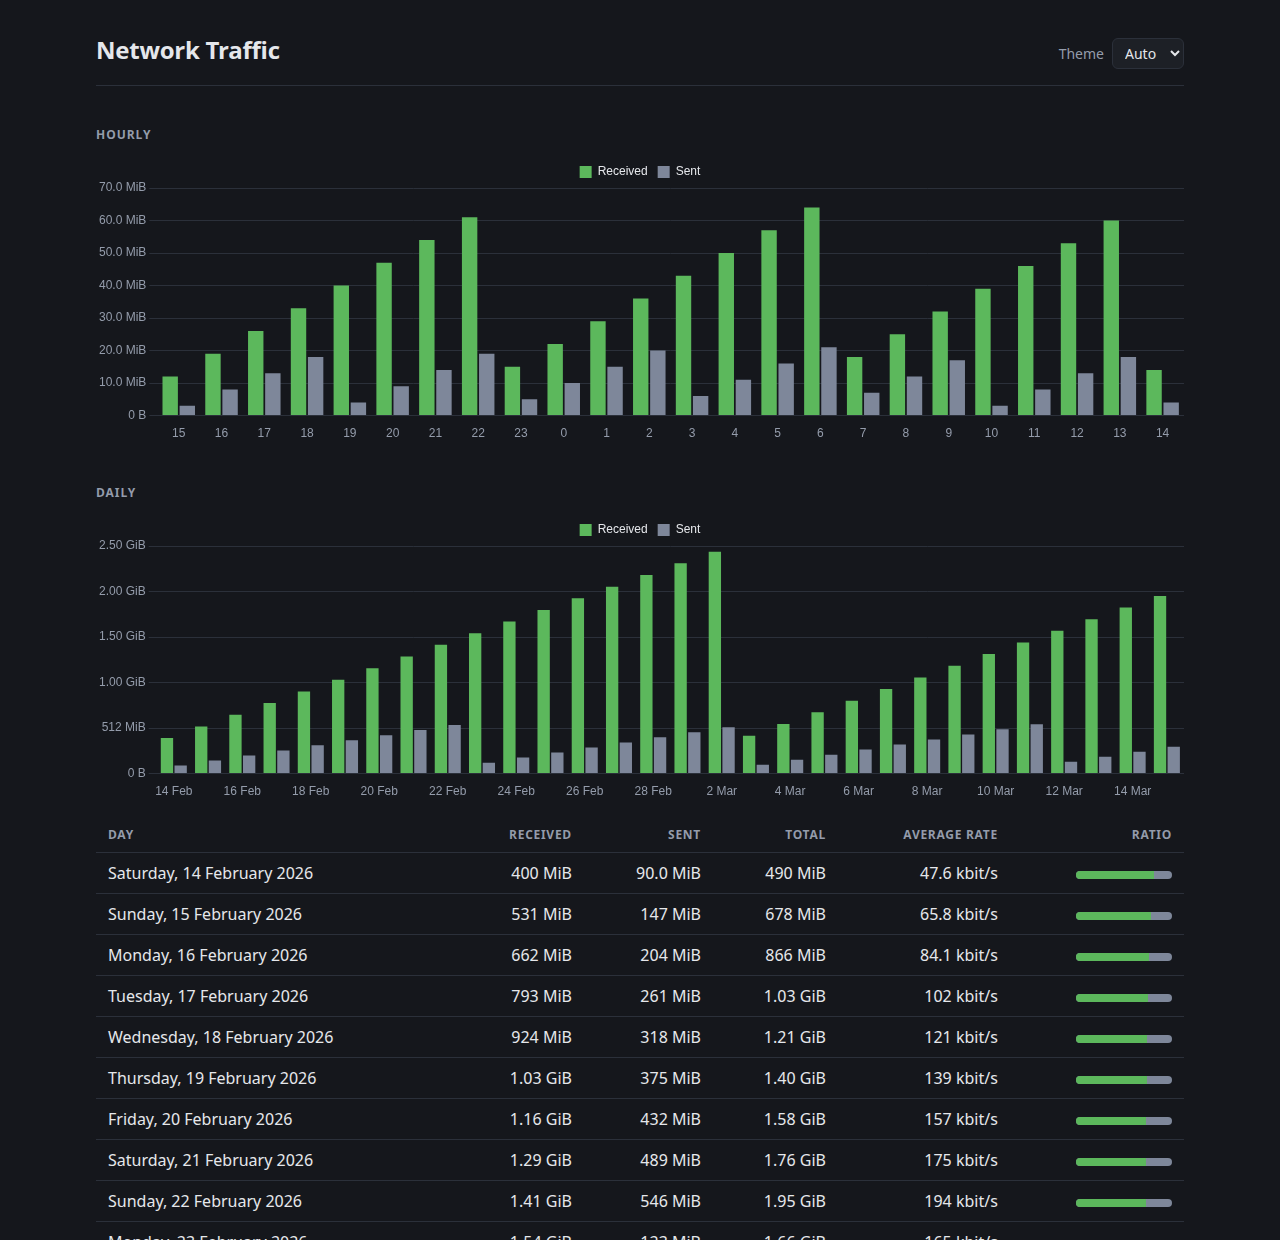
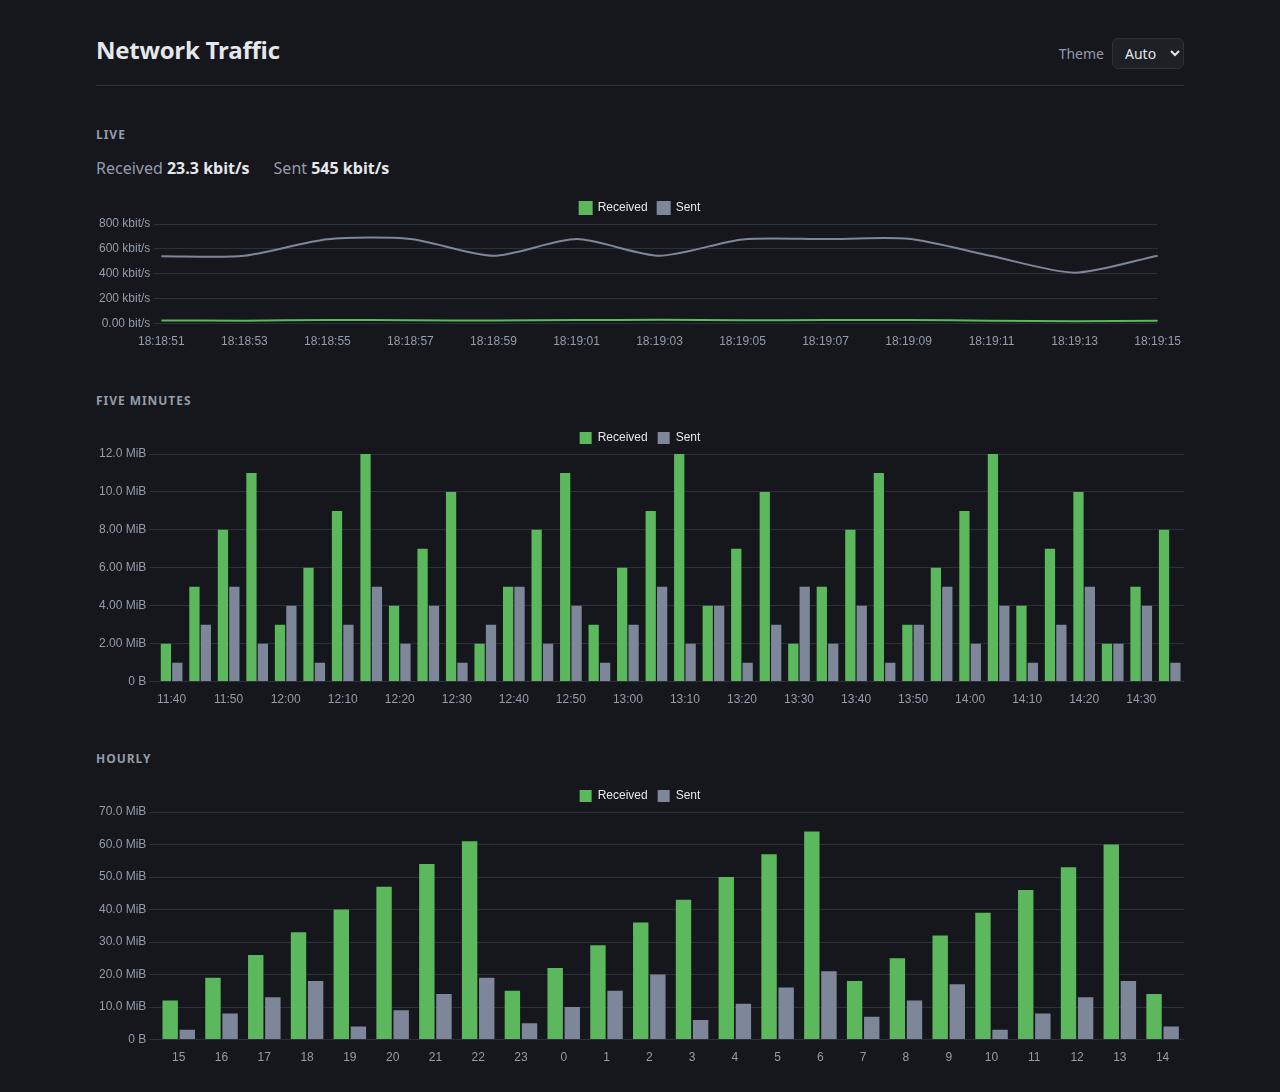
docs: describe the live view
The screenshots predated both the five minute chart and the live view, so
the picture at the top of the README showed a page that no longer exists.
Retaken from the captured fixtures, with the theme control left in the
default Auto state so each half of the pair matches what a visitor sees.

The live view is the first part of the page that reads anything outside
vnStat, so /sys/class/net joins the requirements. Listing interfaces in
the config now also saves it a vnstat call on every refresh, which is
worth saying next to the rest of that setting's effects.

diff --git a/README.md b/README.md
@@ -1,12 +1,12 @@
 # vnStat-PHP
 
 A small PHP frontend for [vnStat](https://humdi.net/vnstat/) that shows what
-your network interfaces have been doing, by hour, day and month, and which
-days were busiest.
+your network interfaces are doing now, and what they have been doing by five
+minutes, hour, day and month, plus which days were busiest.
 
 <picture>
     <source media="(prefers-color-scheme: dark)" srcset="docs/example-dark.webp">
-    <img alt="Hourly and daily traffic charts above a table of daily totals." src="docs/example-light.webp">
+    <img alt="A live transfer rate chart above five minute and hourly traffic charts." src="docs/example-light.webp">
 </picture>
 
 ## Requirements
@@ -16,6 +16,9 @@ days were busiest.
   runs as
 - `shell_exec()` not listed in `disable_functions`, since that is how vnStat
   is called
+- `/sys/class/net` readable, which the live view uses. An `open_basedir` that
+  excludes it turns that one panel into an error and leaves the rest of the
+  page working
 
 Run vnStat as a daemon so it has data to report. It can run in user mode
 instead, which the vnStat documentation covers.
@@ -42,6 +45,10 @@ Without configuration the page shows the first interface vnStat reports. To
 pick a different one, or to switch between several, copy
 `config/config.php.dist` to `config/config.php` and list them there. The
 first is the default, and a dropdown appears when there is more than one.
+
+Listing them also saves the live view a `vnstat` call on every refresh. The
+endpoint serves only interfaces the page itself reports, and without a list
+it has to ask vnStat which one that is.
 
 ## Upgrading from an earlier version
 
